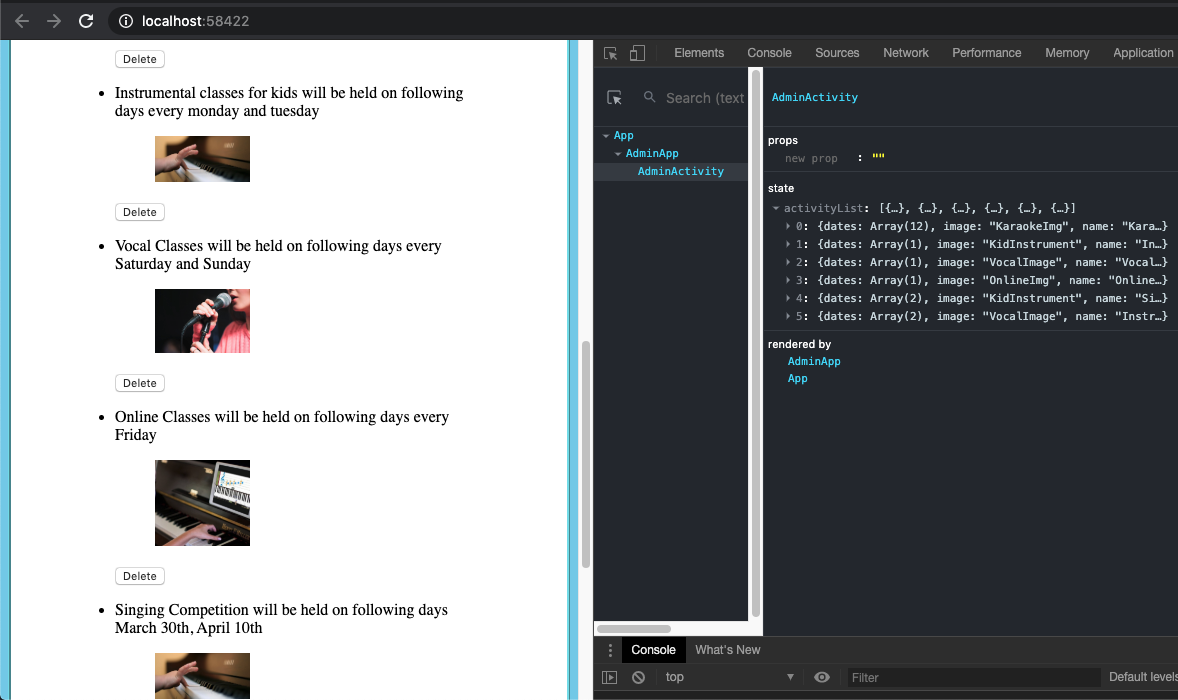
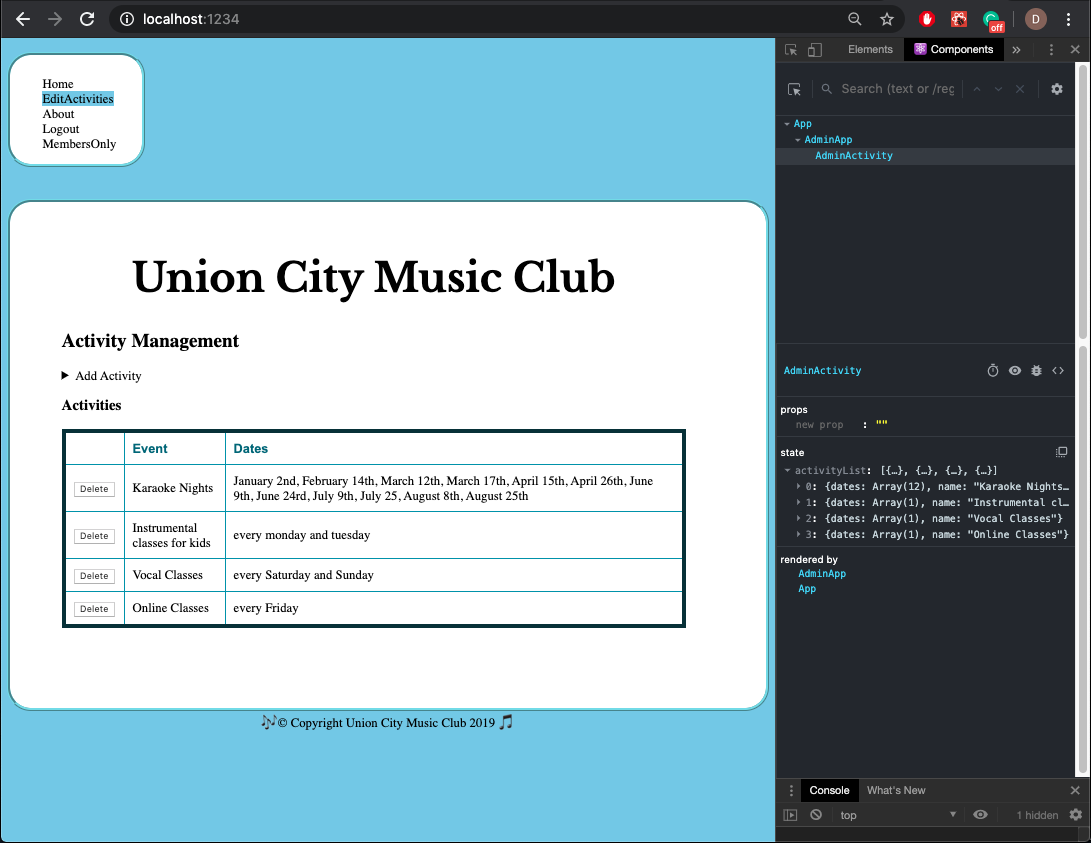
Changes in json file, removed image field, answer to question 2

diff --git a/ReactClub/admin/AdminActivity.js b/ReactClub/admin/AdminActivity.js
@@ -14,54 +14,69 @@ class AdminActivity extends React.Component {
 
 	addActivity() {
 		let dateArr = (date.value).split(",")
-		let newEventDict = {name:eventname.value,dates: dateArr,image:eventimage.value};
+		let newEventDict = {name:eventname.value,dates: dateArr};
 		this.setState({activityList:this.state.activityList.concat(newEventDict)});
-         
+
+	}
+
+	deleteActivity(i) {
+       let newArray = this.state.activityList.filter(function(activity, index){
+      if (index === i) 
+        return false;
+       else 
+        return true;
+    })
+    console.log(newArray)
+    this.setState({activityList:newArray});
+
 	}
 
 
 	render(){
 
-    return <div><main className ="box">
+		let that=this;
+
+		return <div><main className ="box">
 		<header>
-			<h1 className="fh-custom-font"> Union City Music Club</h1>
-			<h2> Activity Management</h2>
+		<h1 className="fh-custom-font"> Union City Music Club</h1>
+		<h2> Activity Management</h2>
 		</header>
 		<details>
 		<summary>Add Activity</summary>
 		<section id = "loginForm">
-			<label htmlFor="name">Name: </label>
-			<input type="text" name="eventname" id="eventname" required placeholder="EventName"/>
-			<label htmlFor="date">Date(s): </label>
-			<input type="text" name="date" id="date" placeholder="Dates"/>
-			<label htmlFor="imageSelect">Choose a image:</label>
-
-		    <select name="eventimage" id="eventimage">
-		    <option value="">--Please choose an option--</option>
-		    <option value="KaraokeImg">image1</option>
-		    <option value="KidInstrument">image2</option>
-		    <option value="VocalImage">image3</option>
-		    </select>
-			<button type="button" id = "Add" onClick = {this.addActivity.bind(this)} >Add</button>
+		<label htmlFor="name">Name: </label>
+		<input type="text" name="eventname" id="eventname" required placeholder="EventName"/>
+		<label htmlFor="date">Date(s): </label>
+		<input type="text" name="date" id="date" placeholder="Dates"/>
+		
+		<button type="button" id = "Add" onClick = {this.addActivity.bind(this)} >Add</button>
 		</section>
 		</details>
-		<h3> Activities</h3>
 
-		<ul className="clubEvents">
-	    {(this.state.activityList).map((activity) => {
-		//console.log(activity.name);
-		console.log(activity.image);	
-		return <li key = {activity.name}>
-		<p>{activity.name} will be held on following days {(activity.dates).join(", ")}</p>
-		<figure>
-		   <img className="activityImage" src={images[activity.image]}/>
-		</figure>
-		<button type="button" id = "Delete" >Delete</button>
-		</li>
+	{/* Activity tabel*/}
+		<h3> Activities</h3>
+     
+        <table><thead><tr> 
+        <td></td>
+		<td>Event</td>
+		<td>Dates</td>
+		</tr></thead>
+
+        <tbody>
+		{/*<ul className="clubEvents">*/}
+
+		{(this.state.activityList).map((activity,i) => {
+			
+		return <tr key = {"activity"+i}>
+		<td><button type="button" id = "Delete" onClick={that.deleteActivity.bind(that,i)}>Delete</button></td>
+		<td>{activity.name} </td>
+		<td> {(activity.dates).join(", ")}</td>
+		</tr>
 	}
 
 	)}
-	</ul>
+	</tbody>
+	</table>
 	</main>
 	<footer>&#127926;&copy; Copyright Union City Music Club 2019 &#127925;</footer></div>;
 }

diff --git a/ReactClub/guest/Activities.js b/ReactClub/guest/Activities.js
@@ -10,19 +10,25 @@ function Activities(props) {
 			<h1 className="fh-custom-font"> Union City Music Club</h1>
 			<h2> Our Activities</h2>
 		</header>
-		<ul className="clubEvents">
+		<table>
+		<thead> 
+		<tr> 
+		<td>Event </td>
+		<td> Dates </td>
+		</tr>
+		</thead>
+
+     <tbody>
 	{(activityList).map((activity) => {
-		console.log(activity.image);
-		return <li key = {activity.name}>
-		<p>{activity.name} will be held on following days {(activity.dates).join(", ")}</p>
-		<figure>
-		   <img className="activityImage" src={images[activity.image]}/>
-		</figure>
-		</li>
+		return <tr key = {activity.name}>
+		<td>{activity.name}</td>
+		<td> {(activity.dates).join(", ")}</td>
+		</tr>
 	}
 
 	)}
-	</ul>
+	</tbody>
+	</table>
 	</main>
 	<footer>&#127926;&copy; Copyright Union City Music Club 2019 &#127925;</footer></div>;
 }

diff --git a/ReactClub/club.css b/ReactClub/club.css
@@ -149,6 +149,26 @@ a {
 		
 	}
 
+	table {
+		
+		border: 5px solid #0c3740;
+		border-collapse: collapse;
+		display: fixed;
+		border-width: 5px;
+	}
+
+	td {
+		padding:10px;
+		border:2px solid;
+		border-color: #219cb4;
+	}
+
+	thead {
+		font-weight:bold;
+		font-family:'Arial';
+		color :#187083;
+	}
+
 	/*.divStyle {
 		background-color: #87ceeb;
 	}*/

diff --git a/README.md b/README.md
@@ -15,11 +15,8 @@ Activity administration mockup
 ### (c)
 We use class component. In order to save state of activities and rerender the newly added activity we need to use class component
 
-before adding activity :
-![ScreenShot](images/ScreenShot48.png)
-
 after adding activity:
-![ScreenShot](images/ScreenShot49.png)
+![ScreenShot](images/ScreenShot48.png)
 
 ### (d)
 
@@ -34,7 +31,8 @@ constructor(props)
 ### (e)
 JSX code of widegts for adding activity
 ``` JSX
-	<header>
+	return <div><main className ="box">
+		<header>
 		<h1 className="fh-custom-font"> Union City Music Club</h1>
 		<h2> Activity Management</h2>
 		</header>
@@ -45,17 +43,11 @@ JSX code of widegts for adding activity
 		<input type="text" name="eventname" id="eventname" required placeholder="EventName"/>
 		<label htmlFor="date">Date(s): </label>
 		<input type="text" name="date" id="date" placeholder="Dates"/>
-		<label htmlFor="imageSelect">Choose a image:</label>
-
-		<select name="eventimage" id="eventimage">
-		<option value="">--Please choose an option--</option>
-		<option value="KaraokeImg">image1</option>
-		<option value="KidInstrument">image2</option>
-		<option value="VocalImage">image3</option>
-		</select>
+		
 		<button type="button" id = "Add" onClick = {this.addActivity.bind(this)} >Add</button>
 		</section>
 		</details>
+
 ```
 
 ### (f)
@@ -63,7 +55,7 @@ event handling function of adminActivity.js which is called when add button is c
 ``` adminActivity.js
 addActivity() {
 		let dateArr = (date.value).split(",")
-		let newEventDict = {name:eventname.value,dates: dateArr,image:eventimage.value};
+		let newEventDict = {name:eventname.value,dates: dateArr};
 		this.setState({activityList:this.state.activityList.concat(newEventDict)});
 		
 	}
@@ -71,10 +63,43 @@ addActivity() {
 ## Question 2 
 
 ### (a)
+prior to the deletion of event:
+![ScreenShot](images/ScreenShot49.png)
+
+after deleting some event:
+![ScreenShot](images/ScreenShot50.png)
 
 
 ### (b)
+JSX in adminActivity for calling deleteEvent() function:
+```JSX
+{(this.state.activityList).map((activity,i) => {
+	
+	return <tr key = {"activity"+i}>
+	<td><button type="button" id = "Delete" onClick={that.deleteActivity.bind(that,i)}>Delete</button></td>
+	<td>{activity.name} </td>
+	<td> {(activity.dates).join(", ")}</td>
+	</tr>
+}
 
+```
+I have not used any sub-components. All the functionality is in the same component.
+
+### (c)
+function to deletActivity in adminActivity.js to delete activity
+``` javascript
+deleteActivity(i) {
+		let newArray = this.state.activityList.filter(function(activity, index){
+			if (index === i) 
+				return false;
+			else 
+				return true;
+		})
+		console.log(newArray)
+		this.setState({activityList:newArray});
+
+	}
+```
 ## Question 3
 
 ### (a)   
